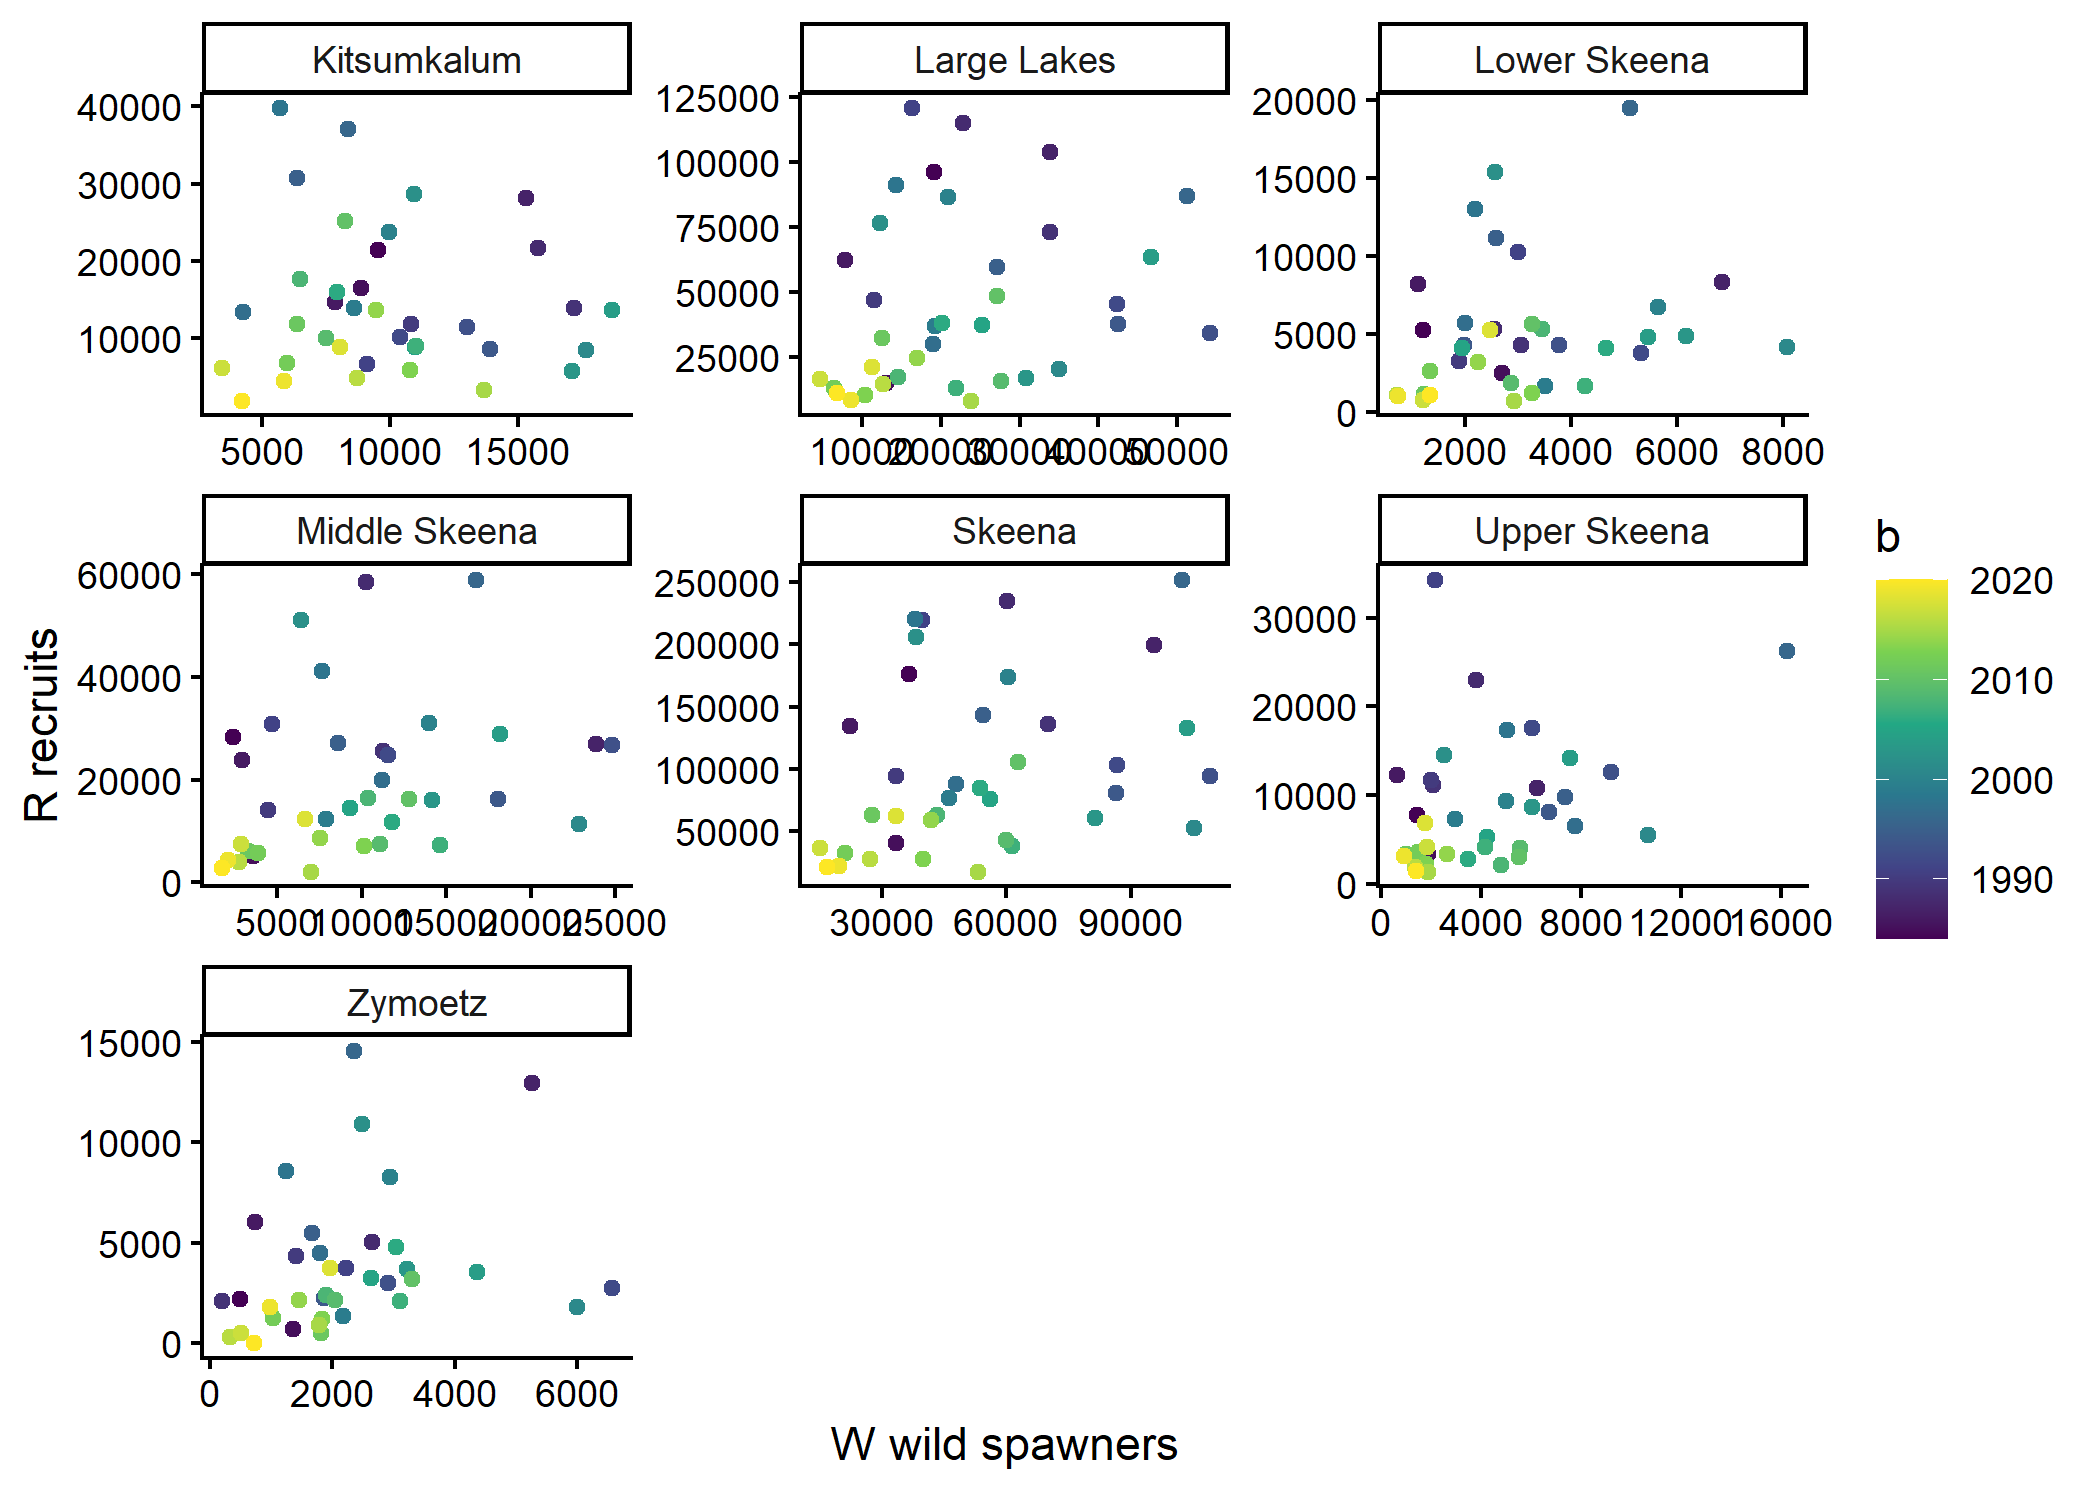
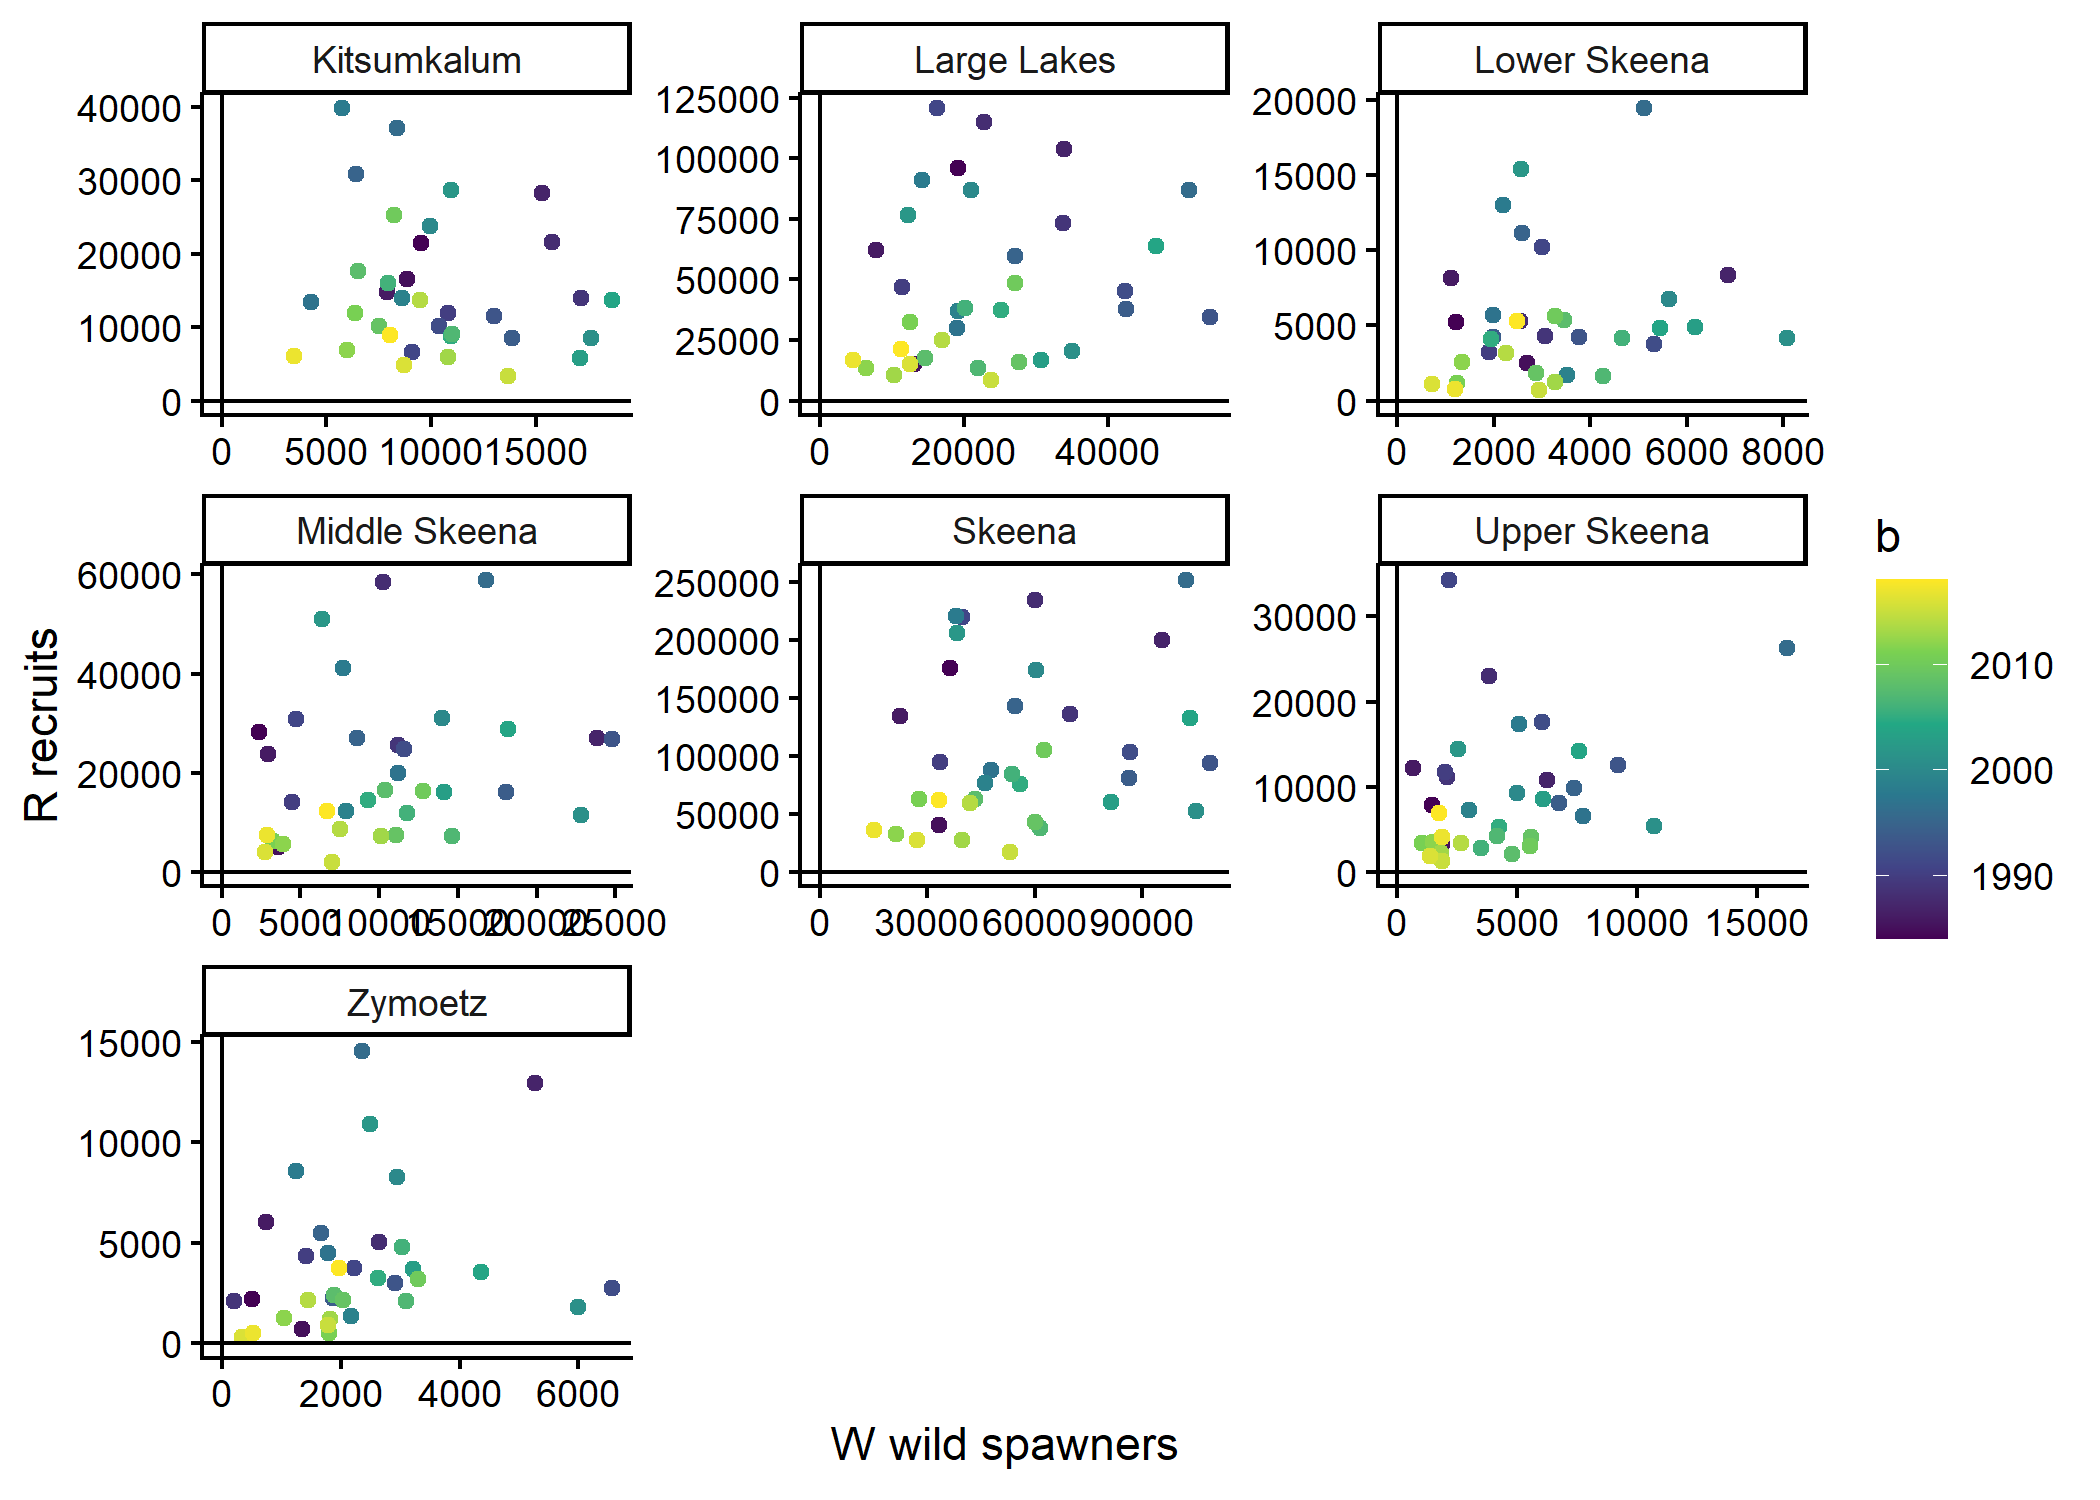
Remove incomplete brood year cohorts from recruit figs

diff --git a/Rmd/run-reconstruction-1984-2024.md b/Rmd/run-reconstruction-1984-2024.md
@@ -817,7 +817,10 @@ names(dcn) <- new_names
 run_reconstruction_table <- dcn
 
 # Sum wild spawners, total harvest, and total run by CU and return year
-dcsum <- dc %>% filter(!a== 7) %>% group_by(i, y) %>% summarize( W = sum(W_star, na.rm=TRUE), harvest = sum(total_harvest_estimate, na.rm=TRUE), N = sum(N, na.rm=TRUE))
+dcsum <- dc %>% filter(!a== 7) %>% group_by(i, y) %>% 
+  summarize( W = sum(W_star, na.rm=TRUE), 
+             harvest = sum(total_harvest_estimate, na.rm=TRUE), 
+             N = sum(N, na.rm=TRUE))
 #> `summarise()` has grouped output by 'i'. You can override using the `.groups`
 #> argument.
 
@@ -898,11 +901,13 @@ ggplot( dcsum, aes(y = harvest, x = y)) +
 <img src="man/figures/README-harvest-1.png" alt="" width="100%" />
 
 ``` r
-ggplot( brood_table, aes(y = R, x = W, colour = b)) +
+ggplot( brood_table[ brood_table$complete_brood==TRUE, ], aes(y = R, x = W, colour = b)) +
   geom_point() +
   ylab(TeX("$R$ recruits")) +
   scale_colour_viridis_c() +
   xlab(TeX("$W$ wild spawners")) +
+  geom_hline(aes(yintercept = 0))+ 
+  geom_vline(aes(xintercept = 0))+ 
   facet_wrap( ~ i, scales= "free" ) +
   theme_classic()
 ```
@@ -911,7 +916,7 @@ ggplot( brood_table, aes(y = R, x = W, colour = b)) +
 
 ``` r
  
-ggplot( brood_table, aes(y = R/W, x = b)) +
+ggplot( brood_table[ brood_table$complete_brood==TRUE, ], aes(y = R/W, x = b)) +
   geom_point() +
   geom_line() +
   geom_hline(aes(yintercept = 1), linetype = 2, colour = "gray")+ 
@@ -922,3 +927,31 @@ ggplot( brood_table, aes(y = R/W, x = b)) +
 ```
 
 <img src="man/figures/README-recruits-spawners-2.png" alt="" width="100%" />
+
+``` r
+
+ggplot( brood_table[ brood_table$complete_brood==TRUE, ], aes(y = R/W, x = b)) +
+  geom_point() +
+  geom_line() +
+  geom_hline(aes(yintercept = 1), linetype = 2, colour = "gray")+ 
+  ylab(TeX("Recruits per (wild) spawner")) +
+  xlab("Brood year") +
+  facet_wrap( ~ i) +
+  theme_classic()
+```
+
+<img src="man/figures/README-recruits-spawners-3.png" alt="" width="100%" />
+
+``` r
+
+ggplot( brood_table[ brood_table$complete_brood==TRUE, ], aes(y = log(R/W), x = b)) +
+  geom_point() +
+  geom_line() +
+  geom_hline(aes(yintercept = log(1)), linetype = 2, colour = "gray")+ 
+  ylab(TeX("log Recruits per (wild) spawner")) +
+  xlab("Brood year") +
+  facet_wrap( ~ i ) +
+  theme_classic()
+```
+
+<img src="man/figures/README-recruits-spawners-4.png" alt="" width="100%" />
